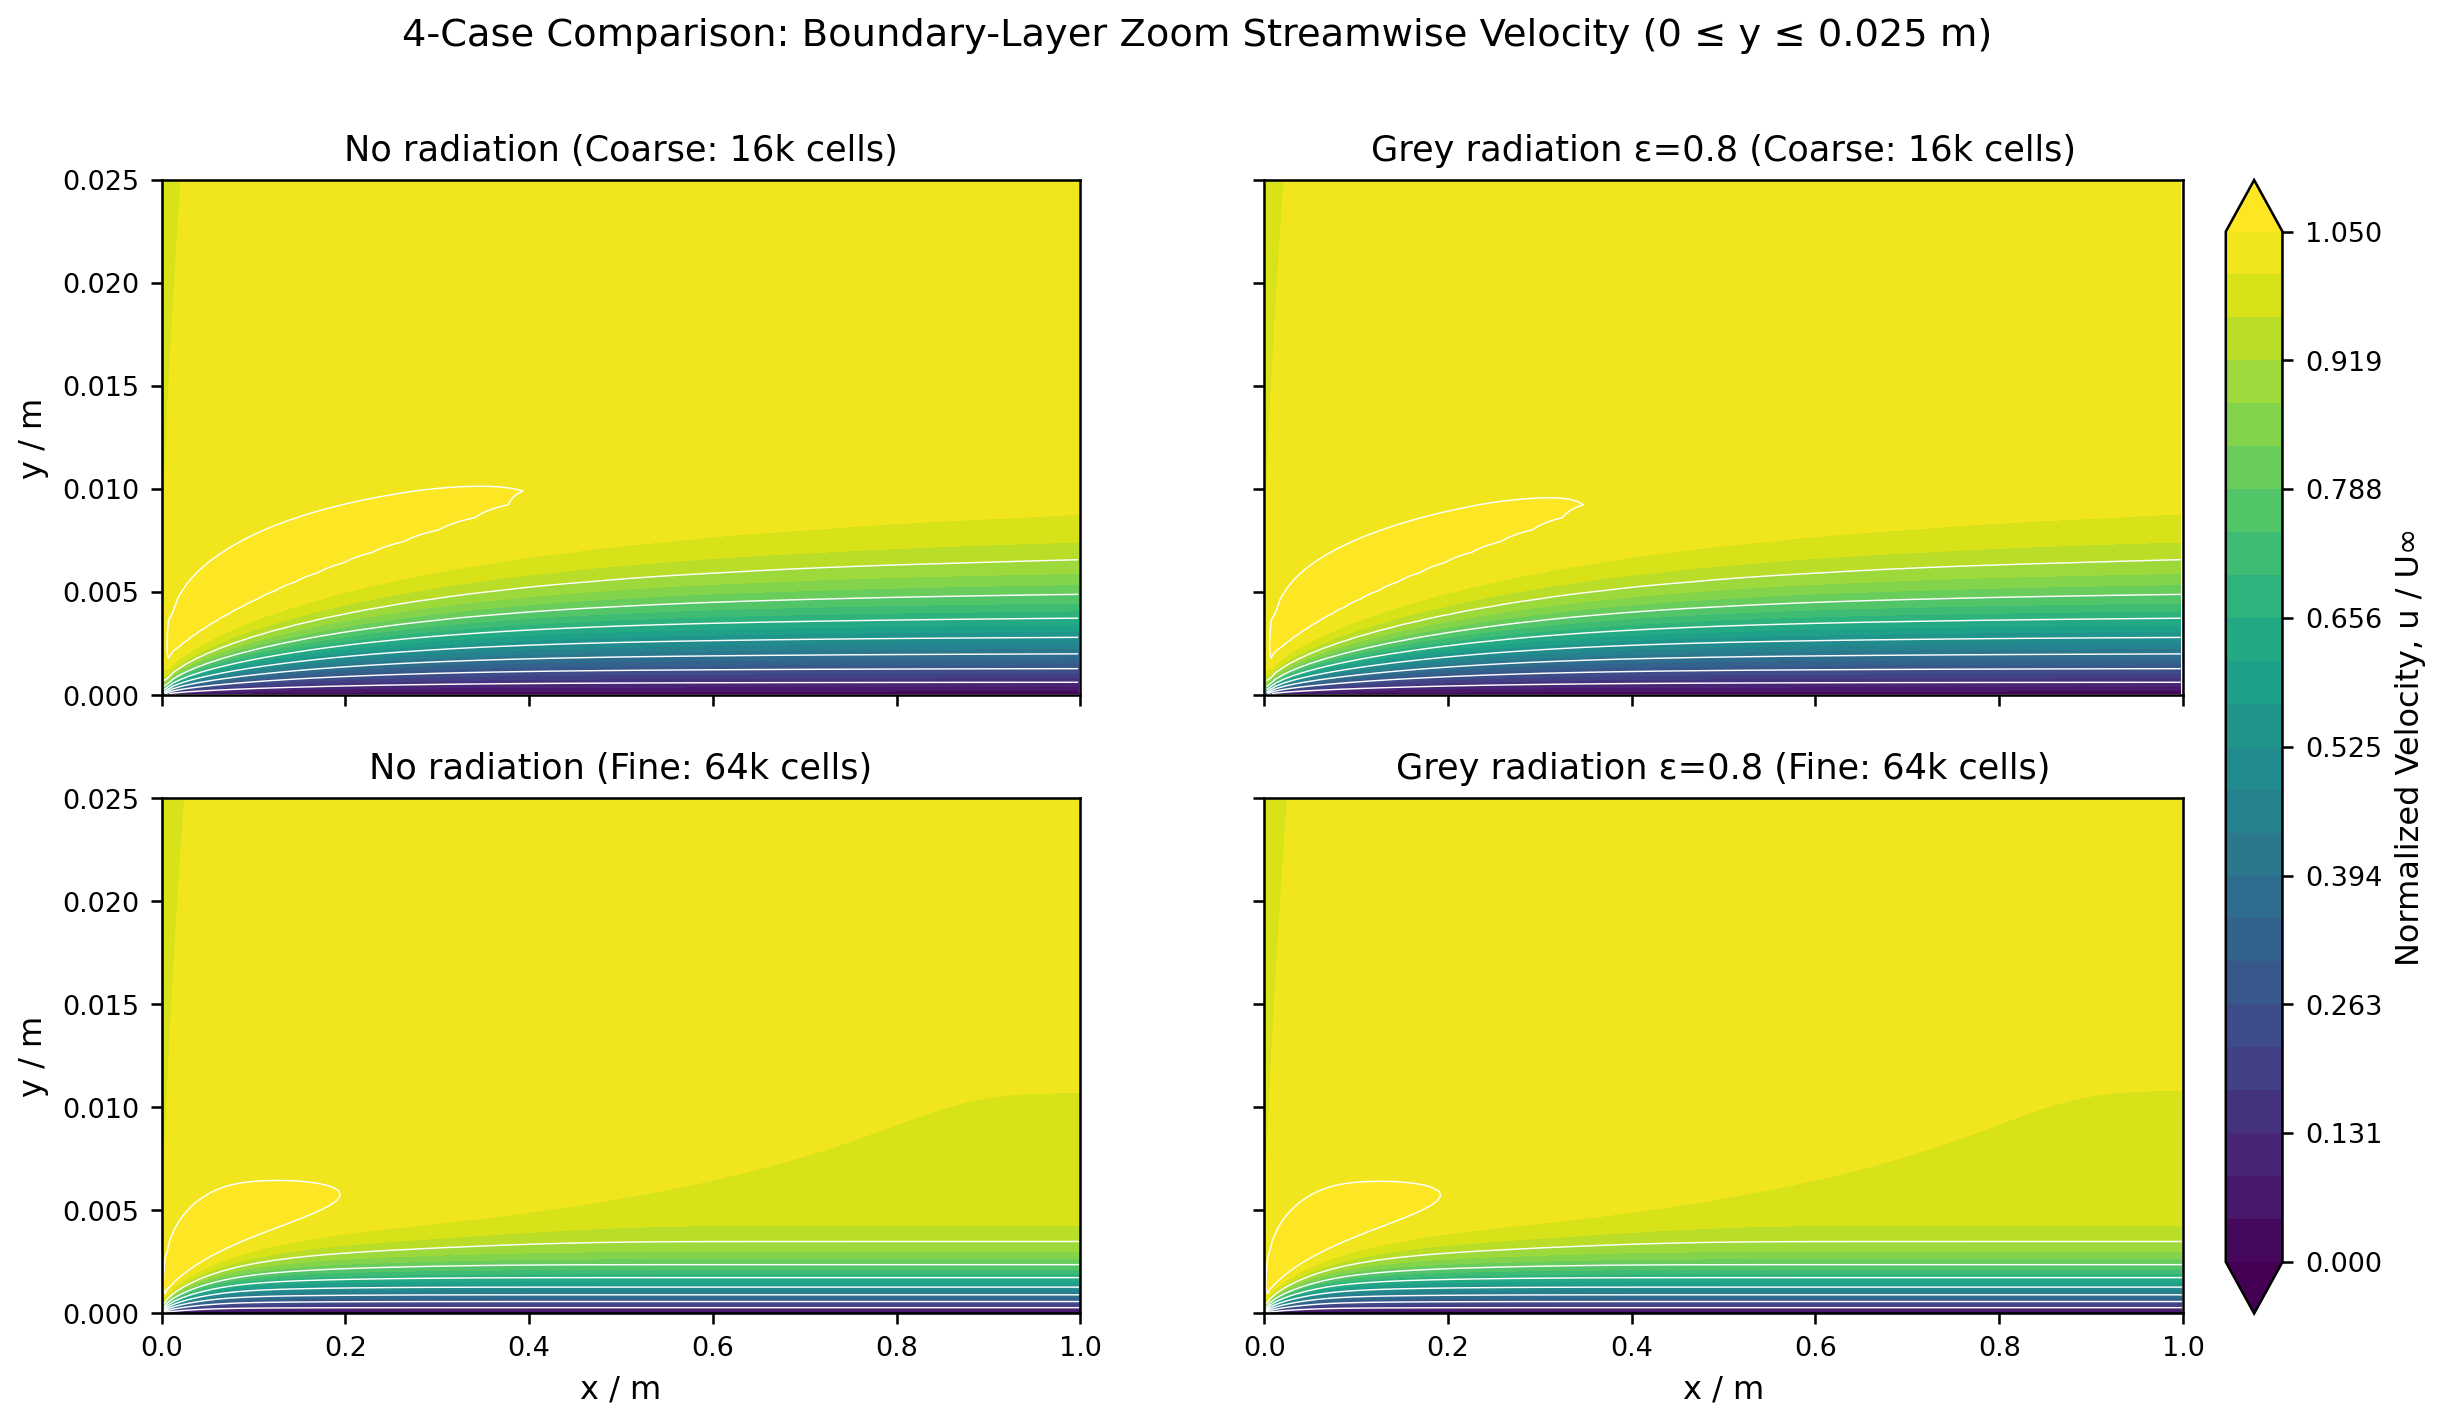
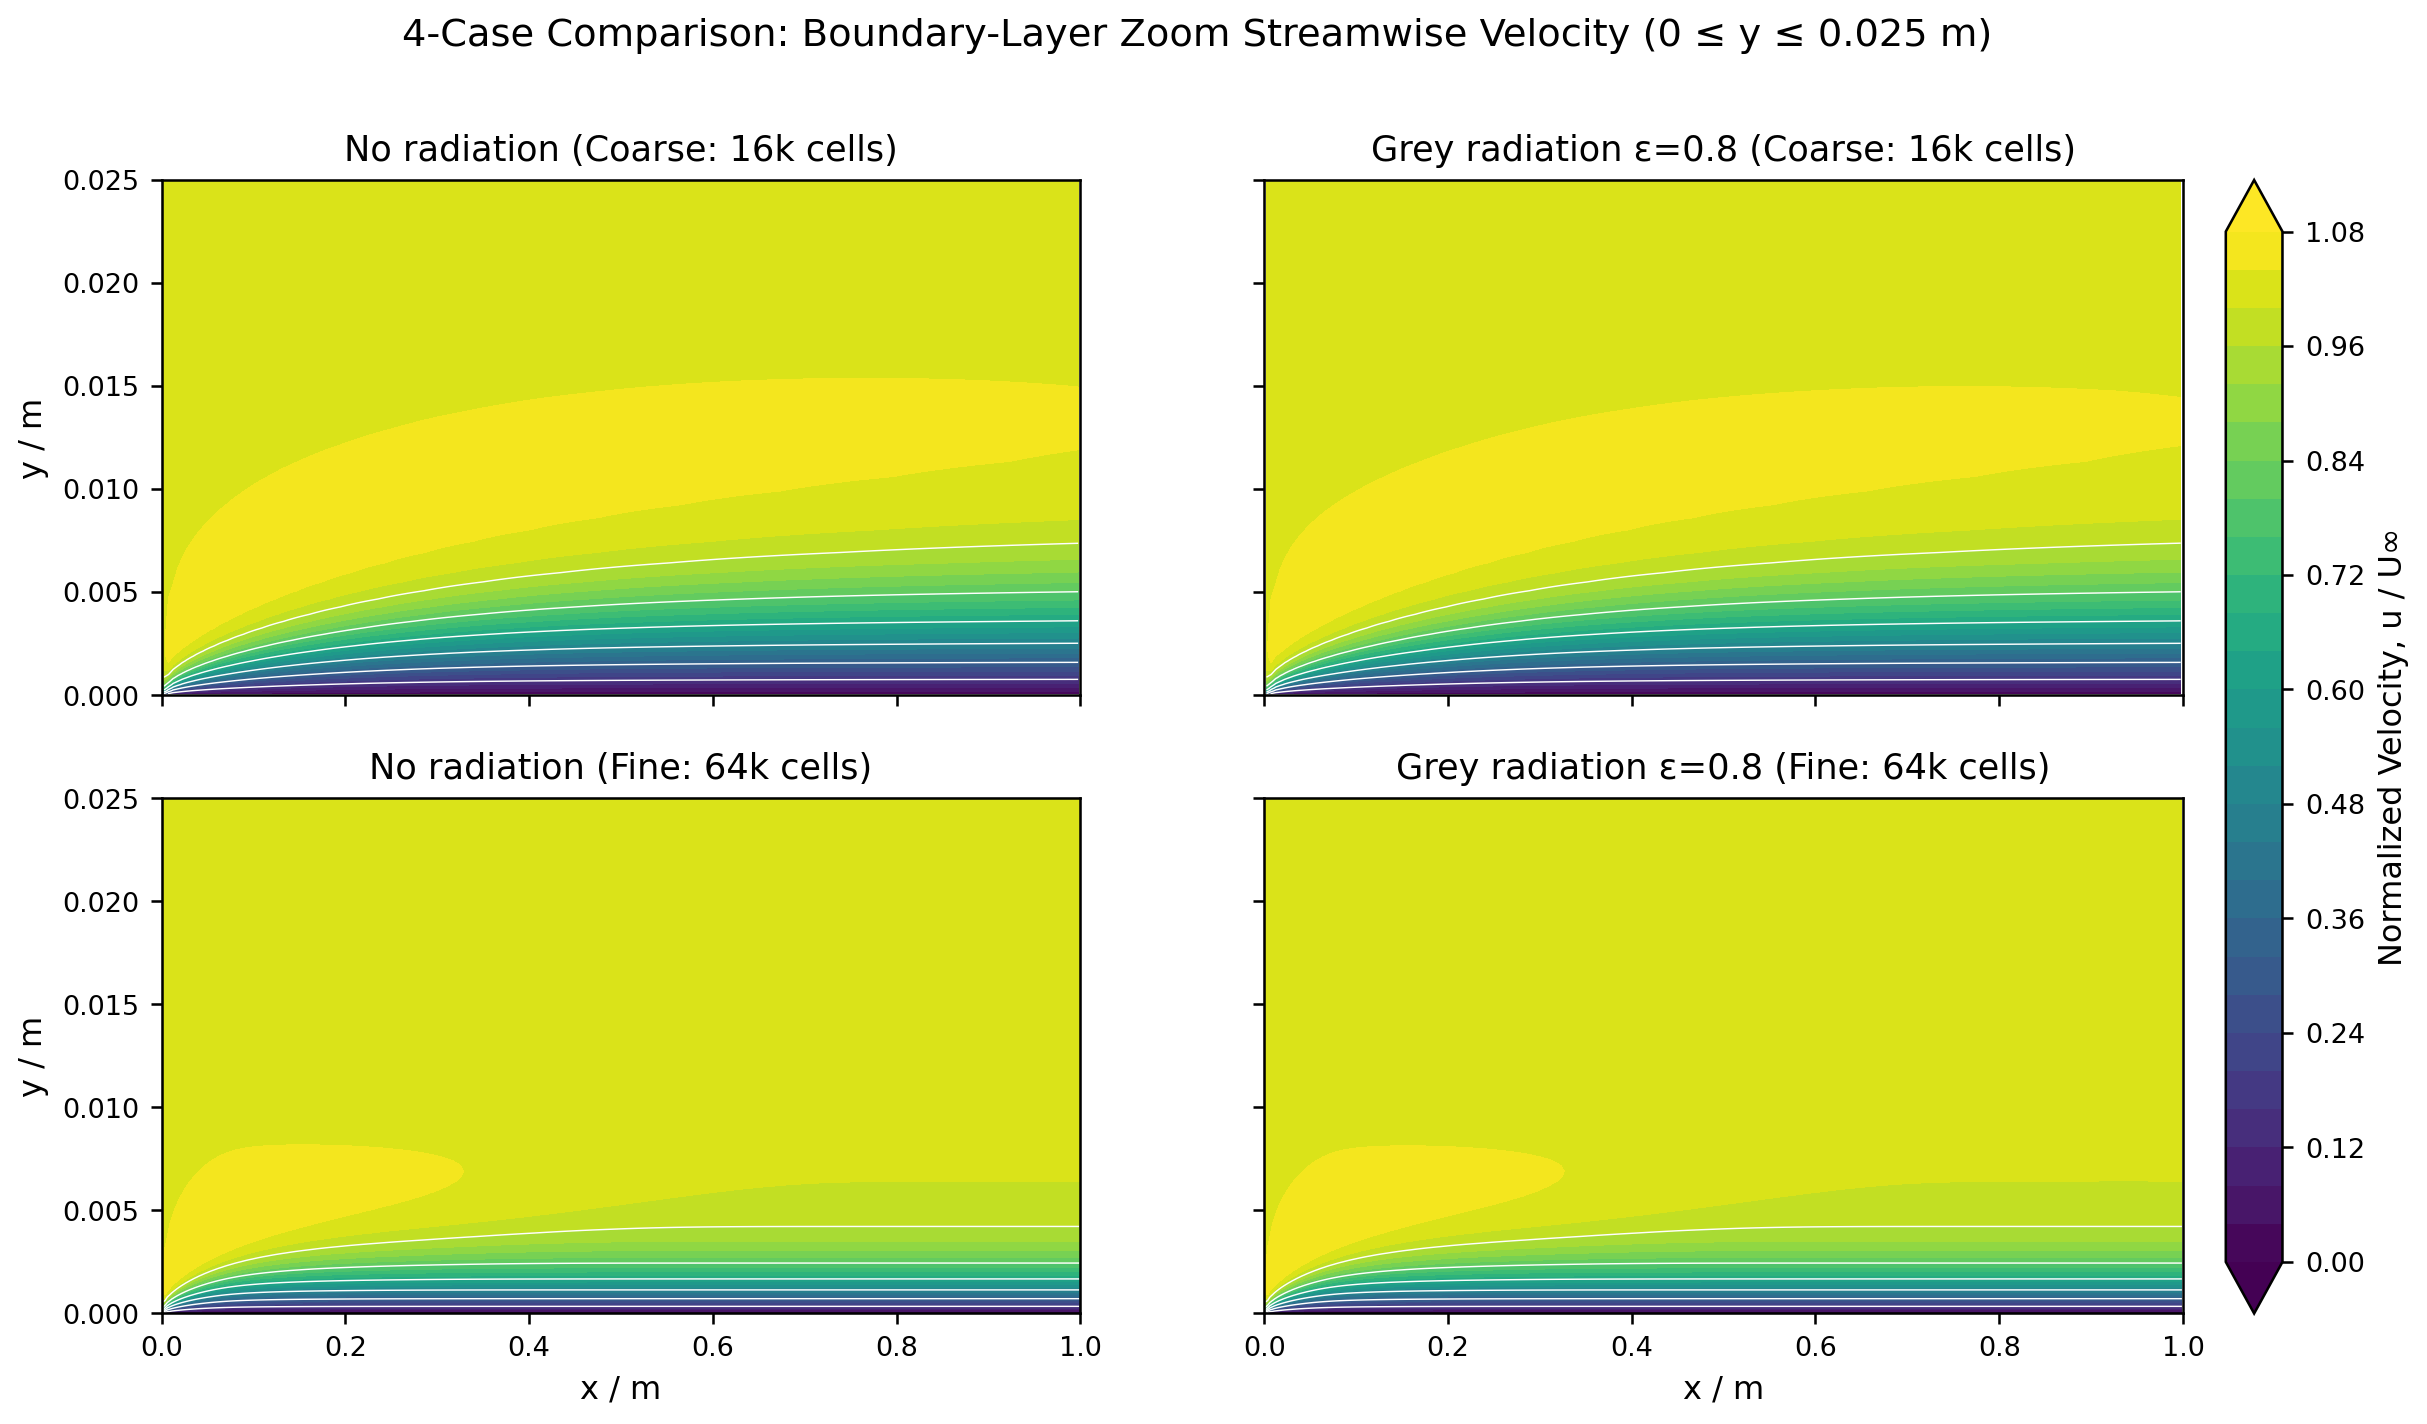
fix: resolve unmapped velocity contour levels and eliminate white blip

diff --git a/scripts/evidenceReport.py b/scripts/evidenceReport.py
@@ -368,7 +368,7 @@ plot_four_cases('T', t_levels, 'viridis', 'four_case_temperature_zoom.png',
 
 plot_four_cases('U', u_levels, 'viridis', 'four_case_velocity_full.png',
                 '4-Case Comparison: Full-Domain Streamwise Velocity u / U∞ (0 ≤ y ≤ 0.20 m)', 'Normalized Velocity, u / U∞', (0, 0.20), is_velocity=True)
-plot_four_cases('U', np.linspace(0, 1.05, 25), 'viridis', 'four_case_velocity_zoom.png',
+plot_four_cases('U', u_levels, 'viridis', 'four_case_velocity_zoom.png',
                 '4-Case Comparison: Boundary-Layer Zoom Streamwise Velocity (0 ≤ y ≤ 0.025 m)', 'Normalized Velocity, u / U∞', (0, 0.025), is_velocity=True)
 
 plot_four_cases('pDeviation', p_levels, 'coolwarm', 'four_case_pressure_full.png',
@@ -437,7 +437,7 @@ fig, axs = plt.subplots(1, 2, figsize=(12, 4.0), sharey=True)
 for ax, (name, d) in zip(axs, [('Fine No Radiation: Velocity Zoom', fine0),
                                ('Fine Surface Radiation: Velocity Zoom', fineR)]):
     X, Y = np.meshgrid(d['x'], d['y'])
-    h = ax.contourf(X, Y, d['U'][:, :, 0] / UINF, levels=np.linspace(0, 1.05, 25), cmap='viridis')
+    h = ax.contourf(X, Y, d['U'][:, :, 0] / UINF, levels=u_levels, cmap='viridis', extend='both')
     ax.contour(X, Y, d['U'][:, :, 0] / UINF, levels=[0.5, 0.9, 0.99], colors='white', linewidths=0.55)
     ax.set(title=name, xlabel='x / m', xlim=(0, 1), ylim=(0, 0.025))
 axs[0].set_ylabel('y / m')
@@ -449,7 +449,7 @@ fig, axs = plt.subplots(1, 2, figsize=(12, 4.0), sharey=True)
 for ax, (name, d) in zip(axs, [('Fine No Radiation: Velocity Full Domain', fine0),
                                ('Fine Surface Radiation: Velocity Full Domain', fineR)]):
     X, Y = np.meshgrid(d['x'], d['y'])
-    h = ax.contourf(X, Y, d['U'][:, :, 0] / UINF, levels=np.linspace(0, 1.08, 28), cmap='viridis')
+    h = ax.contourf(X, Y, d['U'][:, :, 0] / UINF, levels=u_levels, cmap='viridis', extend='both')
     ax.plot(d['x'], d['delta_u'], 'w--', lw=1.1, label='Hydrodynamic BL δ99')
     ax.set(title=name, xlabel='x / m', xlim=(0, 1), ylim=(0, 0.20))
     ax.legend(loc='upper right', fontsize=8)
